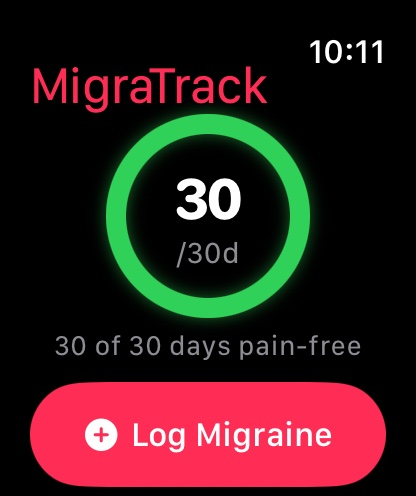
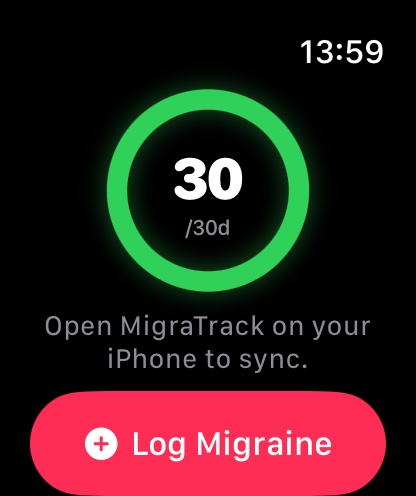
Update the Apple Watch steps of the user journey report for the redesign
The watch steps now show the three screens, the single Log Migraine complication and the control, and they say that a tap opens the logger. Screenshots of removed features are deleted.

Changed region(s): [[0.0625, 0.121, 0.9375, 1.0], [0.3125, 0.8468, 0.8125, 0.9375], [0.7188, 0.0605, 0.9375, 0.1512]]

diff --git a/docs/user-journey/index.html b/docs/user-journey/index.html
@@ -166,12 +166,13 @@ dialog p { color: #f4f1f2; text-align: center; font-size: 14px; margin-top: 10px
   <header class="intro">
     <span class="eyebrow">Сквозной тест · 4 октября 2026 · дополнен 11 октября</span>
     <h1>Путь пользователя <em>MigraTrack</em> на iPhone и Apple Watch</h1>
-    <p>Тест начался с чистой установки на обоих устройствах. Пользователь проходит онбординг, логирует приступы на iPhone, в приложении на часах, с компликации и из Smart Stack, смотрит аналитику и экспортирует отчёт. После каждого действия я проверял базу SQLite на обоих устройствах. Шаги 16–21 добавил второй прогон: календарь Insights, правка приступа и лог в прошлый день. Нажмите на снимок, чтобы увеличить его.</p>
+    <p>Тест начался с чистой установки на обоих устройствах. Пользователь проходит онбординг, логирует приступы на iPhone и на часах, открывает логгер часов с циферблата и из Smart Stack, смотрит аналитику и экспортирует отчёт. После каждого действия я проверял базу SQLite на обоих устройствах. Шаги 16–21 добавил второй прогон: календарь Insights, правка приступа и лог в прошлый день. Нажмите на снимок, чтобы увеличить его.</p>
+    <p>11 октября приложение на часах получило новый дизайн из трёх экранов. Шаги часов 1, 8–11 и 21 я переснял на новой версии и на данных второго прогона. Поэтому числа на часах отличаются от чисел в шагах iPhone.</p>
     <div class="facts">
       <div class="fact"><b class="ok">21 из 21</b><span>шага пройден, ошибок приложения нет</span></div>
       <div class="fact"><b>iPhone 18 Pro Max</b><span>симулятор, iOS 27.0</span></div>
       <div class="fact"><b>Watch Series 12</b><span>46 мм, watchOS 27.0, в паре с iPhone</span></div>
-      <div class="fact"><b>65</b><span>снимков экрана, Debug 1.0.0 (1)</span></div>
+      <div class="fact"><b>66</b><span>снимков экрана, Debug 1.0.0 (1)</span></div>
     </div>
   </header>
 
@@ -187,8 +188,8 @@ dialog p { color: #f4f1f2; text-align: center; font-size: 14px; margin-top: 10px
       <li><a href="#s7"><span class="n">7</span><span class="d" style="background:var(--pink)"></span>Сохранение</a></li>
       <li><a href="#s8"><span class="n">8</span><span class="d" style="background:var(--green)"></span>Часы получают данные</a></li>
       <li><a href="#s9"><span class="n">9</span><span class="d" style="background:var(--green)"></span>Лог на часах</a></li>
-      <li><a href="#s10"><span class="n">10</span><span class="d" style="background:var(--green)"></span>Компликации</a></li>
-      <li><a href="#s11"><span class="n">11</span><span class="d" style="background:var(--green)"></span>Smart Stack</a></li>
+      <li><a href="#s10"><span class="n">10</span><span class="d" style="background:var(--green)"></span>Компликация</a></li>
+      <li><a href="#s11"><span class="n">11</span><span class="d" style="background:var(--green)"></span>Smart Stack и Control</a></li>
       <li><a href="#s12"><span class="n">12</span><span class="d" style="background:var(--pink)"></span>Эпизод и профиль</a></li>
       <li><a href="#s13"><span class="n">13</span><span class="d" style="background:var(--pink)"></span>Insights</a></li>
       <li><a href="#s14"><span class="n">14</span><span class="d" style="background:var(--pink)"></span>Export</a></li>
@@ -209,12 +210,13 @@ dialog p { color: #f4f1f2; text-align: center; font-size: 14px; margin-top: 10px
       <div class="story">
         <span class="device watch">Apple Watch</span>
         <h2>Первый запуск часов, до связи с iPhone</h2>
-        <p>Приложение на часах ставится вместе с приложением на iPhone. Пока iPhone не прислал данные, часы показывают <strong>30 из 30 дней без боли</strong> и подсказку открыть MigraTrack на iPhone.</p>
-        <p>Логировать уже можно: часы берут интенсивность по умолчанию.</p>
+        <p>Приложение на часах ставится вместе с приложением на iPhone. Пока iPhone не прислал данные, кольцо показывает <strong>30 из 30 дней без боли</strong>. Под кольцом подсказка «Open MigraTrack on your iPhone to sync».</p>
+        <p>Логировать уже можно. Без пресета iPhone экран Pain Intensity начинается с 7, интенсивности по умолчанию.</p>
+        <p>Эти снимки я сделал на отдельном симуляторе часов без пары. Часы основной пары уже получили данные iPhone.</p>
       </div>
       <div class="shots">
-        <figure class="watch"><button class="shot" type="button"><img src="img/w01-watch-not-linked.jpg" alt="Главный экран часов: кольцо 30 из 30 дней без боли и кнопка Log Migraine" loading="lazy" width="416" height="496"></button><figcaption>Главный экран: кольцо дней без боли</figcaption></figure>
-        <figure class="watch"><button class="shot" type="button"><img src="img/w02-watch-not-linked-hint.jpg" alt="Подсказка открыть MigraTrack на iPhone" loading="lazy" width="416" height="496"></button><figcaption>Ниже: подсказка, что связи с iPhone ещё нет</figcaption></figure>
+        <figure class="watch"><button class="shot" type="button"><img src="img/w01-watch-not-linked.jpg" alt="Главный экран часов: кольцо 30 из 30, подсказка Open MigraTrack on your iPhone to sync и кнопка Log Migraine" loading="lazy" width="416" height="496"></button><figcaption>Кольцо 30/30 и подсказка о связи</figcaption></figure>
+        <figure class="watch"><button class="shot" type="button"><img src="img/w02-watch-logger-default.jpg" alt="Pain Intensity 7 из 10 и кнопка Save Episode" loading="lazy" width="416" height="496"></button><figcaption>Без пресета: интенсивность 7</figcaption></figure>
       </div>
     </article>
 
@@ -254,7 +256,7 @@ dialog p { color: #f4f1f2; text-align: center; font-size: 14px; margin-top: 10px
       <div class="story">
         <span class="device phone">iPhone</span>
         <h2>Шаг 3: схема лечения</h2>
-        <p>Острые препараты, <strong>Ibuprofen 400mg</strong> и <strong>Sumatriptan 50mg</strong>, становятся пресетом. Они подставляются в каждый новый лог и в быстрый лог с часов.</p>
+        <p>Острые препараты, <strong>Ibuprofen 400mg</strong> и <strong>Sumatriptan 50mg</strong>, становятся пресетом. Они подставляются в каждый новый лог на iPhone и на часах.</p>
         <p>Профилактический Riboflavin 400mg входит в профиль и в отчёт. «Finish Setup» сохраняет профиль.</p>
       </div>
       <div class="shots">
@@ -314,26 +316,29 @@ dialog p { color: #f4f1f2; text-align: center; font-size: 14px; margin-top: 10px
       <div class="story">
         <span class="device watch">Apple Watch</span>
         <h2>Часы получают пресет и приступы</h2>
-        <p>iPhone отправляет на часы пресет и приступы за 60 дней через WatchConnectivity. Кольцо на часах обновилось до <strong>29 из 30</strong>. Ниже появились «This month: 1 attack» и «Last attack: Oct 4». Подсказка о связи исчезла.</p>
+        <p>iPhone отправляет на часы пресет и приступы за 60 дней через WatchConnectivity. Подсказка о связи исчезла. Под кольцом теперь счёт дней без боли: <strong>26 of 30 days pain-free</strong>.</p>
+        <p>Главный экран показывает только кольцо и кнопку Log Migraine. Строк «This month» и «Last attack» в новой версии нет.</p>
       </div>
       <div class="shots">
-        <figure class="watch"><button class="shot" type="button"><img src="img/w03-watch-linked.jpg" alt="Часы: кольцо 29 из 30" loading="lazy" width="416" height="496"></button><figcaption>Кольцо 29/30 с данными iPhone</figcaption></figure>
-        <figure class="watch"><button class="shot" type="button"><img src="img/w04-watch-stats.jpg" alt="This month 1 attack, Last attack Oct 4" loading="lazy" width="416" height="496"></button><figcaption>Статистика месяца</figcaption></figure>
+        <figure class="watch"><button class="shot" type="button"><img src="img/w03-watch-linked.jpg" alt="Часы: кольцо 26 из 30, 26 of 30 days pain-free и кнопка Log Migraine" loading="lazy" width="416" height="496"></button><figcaption>Кольцо 26/30 с данными iPhone</figcaption></figure>
       </div>
     </article>
 
     <article class="step watch" id="s9">
       <div class="num">9</div>
       <div class="story">
-        <span class="device watch">Apple Watch</span>
+        <span class="device watch">Apple Watch</span><span class="device phone">iPhone</span>
         <h2>Лог в приложении на часах</h2>
-        <p>«Log Migraine» открывает выбор интенсивности. Значение пришло из пресета iPhone (6), цвет следует шкале тяжести. Его меняют колёсиком Digital Crown или кнопками. Ниже показаны препараты из профиля.</p>
-        <p>Ставим 5 и сохраняем. Экран подтверждения показывает итог и кнопку Undo.</p>
-        <div class="check">SQLite iPhone через секунду: <code>5 | App | Ibuprofen, Sumatriptan</code></div>
+        <p>«Log Migraine» открывает экран Pain Intensity. Значение пришло из пресета iPhone (6), цвет шкалы следует тяжести. Его меняют колёсиком Digital Crown.</p>
+        <p>«Save Episode» сохраняет приступ. Тот же лист показывает Episode logged: интенсивность и препараты из профиля. «Done» возвращает на главный экран, и кольцо показывает <strong>25 из 30</strong>: 11 октября стал днём приступа.</p>
+        <p>Я логировал на часах дважды, в 01:25 и в 01:35. Карточка дня в календаре iPhone показывает оба приступа.</p>
+        <div class="check">SQLite iPhone: <code>6 | App | Ibuprofen, Sumatriptan</code> в 01:25 и в 01:35, очередь часов <code>0</code></div>
       </div>
       <div class="shots">
-        <figure class="watch"><button class="shot" type="button"><img src="img/w05-watch-logger.jpg" alt="Экран выбора интенсивности 6 с препаратами" loading="lazy" width="416" height="496"></button><figcaption>Пресет с iPhone: 6/10 и препараты</figcaption></figure>
-        <figure class="watch"><button class="shot" type="button"><img src="img/w06-watch-logged.jpg" alt="Episode logged: Intensity 5/10" loading="lazy" width="416" height="496"></button><figcaption>Приступ сохранён</figcaption></figure>
+        <figure class="watch"><button class="shot" type="button"><img src="img/w04-watch-pain-intensity.jpg" alt="Pain Intensity 6 из 10, подсказка Turn Digital Crown и кнопка Save Episode" loading="lazy" width="416" height="496"></button><figcaption>Пресет с iPhone: 6/10</figcaption></figure>
+        <figure class="watch"><button class="shot" type="button"><img src="img/w05-watch-episode-logged.jpg" alt="Episode logged: Intensity 6/10, Ibuprofen 400mg, Sumatriptan 50mg и кнопка Done" loading="lazy" width="416" height="496"></button><figcaption>Episode logged: интенсивность и препараты</figcaption></figure>
+        <figure class="watch"><button class="shot" type="button"><img src="img/w06-watch-after-log.jpg" alt="Часы: кольцо 25 из 30 после лога" loading="lazy" width="416" height="496"></button><figcaption>После лога: 25/30</figcaption></figure>
+        <figure><button class="shot" type="button"><img src="img/p49-watch-episodes-on-iphone.jpg" alt="Календарь iPhone: Sunday, Oct 11, 2 episodes, пик 6 из 10, Ibuprofen 400mg и Sumatriptan 50mg" loading="lazy" width="560" height="1216"></button><figcaption>iPhone: 11 октября, 2 приступа с часов</figcaption></figure>
       </div>
     </article>
 
@@ -341,35 +346,33 @@ dialog p { color: #f4f1f2; text-align: center; font-size: 14px; margin-top: 10px
       <div class="num">10</div>
       <div class="story">
         <span class="device watch">Apple Watch</span>
-        <h2>Компликации на циферблате</h2>
-        <p>В редакторе циферблата у MigraTrack две компликации: «Log Migraine» и «Pain-Free Days». На Infograph ставим <strong>LOG</strong> в круг справа, кольцо дней без боли в нижний круг и «Log Migraine» в угол.</p>
-        <p>Тап по LOG открывает приложение, и оно сразу сохраняет приступ с пресетом. watchOS разрешает компликации на циферблате только открыть приложение. Экран подтверждения даёт Undo на случай случайного тапа.</p>
-        <div class="check">Тап по LOG, SQLite iPhone: <code>6 | QuickLog</code></div>
-        <div class="check">Undo: приступ удалён на часах и на iPhone</div>
+        <h2>Компликация Log Migraine на циферблате</h2>
+        <p>В редакторе циферблата у MigraTrack одна компликация, «Log Migraine». У неё четыре формы: круг, угол, прямоугольник и строка. На Infograph ставим её в угол и в круг справа.</p>
+        <p>Тап по компликации открывает приложение на экране Pain Intensity. watchOS разрешает компликации на циферблате только открыть приложение. Сам тап ничего не сохраняет, приступ сохраняет только «Save Episode». Поэтому случайный тап отменять не нужно, и кнопки Undo нет.</p>
+        <div class="check">Тап по LOG: открыт Pain Intensity, число приступов в SQLite на обоих устройствах не изменилось</div>
       </div>
       <div class="shots">
-        <figure class="watch"><button class="shot" type="button"><img src="img/w07-complication-picker.jpg" alt="Галерея компликаций MigraTrack: Log Migraine и Pain-Free Days" loading="lazy" width="416" height="496"></button><figcaption>Компликации MigraTrack в галерее</figcaption></figure>
-        <figure class="watch"><button class="shot" type="button"><img src="img/w08-face-editor.jpg" alt="Редактор циферблата с тремя компликациями" loading="lazy" width="416" height="496"></button><figcaption>Круг, кольцо и угол</figcaption></figure>
-        <figure class="watch"><button class="shot" type="button"><img src="img/w09-watch-face.jpg" alt="Циферблат Infograph с компликациями MigraTrack" loading="lazy" width="416" height="496"></button><figcaption>Циферблат с компликациями</figcaption></figure>
-        <figure class="watch"><button class="shot" type="button"><img src="img/w10-quicklog-confirmation.jpg" alt="Episode logged после тапа по компликации" loading="lazy" width="416" height="496"></button><figcaption>Один тап: приступ сохранён</figcaption></figure>
-        <figure class="watch"><button class="shot" type="button"><img src="img/w11-quicklog-undo.jpg" alt="Кнопки Done и Undo" loading="lazy" width="416" height="496"></button><figcaption>Undo для случайного тапа</figcaption></figure>
+        <figure class="watch"><button class="shot" type="button"><img src="img/w07-complication-circular.jpg" alt="Галерея компликаций MigraTrack: круглая компликация LOG" loading="lazy" width="416" height="496"></button><figcaption>Галерея: круг</figcaption></figure>
+        <figure class="watch"><button class="shot" type="button"><img src="img/w08-complication-corner.jpg" alt="Галерея компликаций MigraTrack: угловая компликация Log Migraine" loading="lazy" width="416" height="496"></button><figcaption>Галерея: угол</figcaption></figure>
+        <figure class="watch"><button class="shot" type="button"><img src="img/w09-watch-face.jpg" alt="Циферблат Infograph: Log Migraine в углу и LOG в круге справа" loading="lazy" width="416" height="496"></button><figcaption>Угол и круг на Infograph</figcaption></figure>
+        <figure class="watch"><button class="shot" type="button"><img src="img/w10-complication-tap.jpg" alt="Pain Intensity 6 из 10 после тапа по компликации" loading="lazy" width="416" height="496"></button><figcaption>Тап открывает Pain Intensity</figcaption></figure>
       </div>
     </article>
 
     <article class="step watch" id="s11">
       <div class="num">11</div>
       <div class="story">
-        <span class="device watch">Apple Watch</span><span class="device phone">iPhone</span>
-        <h2>Smart Stack: лог без открытия приложения</h2>
-        <p>Ту же компликацию добавляем в Smart Stack. Там кнопка выполняет действие на месте: тап сохранил приступ <strong>6/10</strong>, приложение не открылось.</p>
-        <p>Расширение компликаций не может связаться с iPhone. Приступ ждёт в очереди часов и уходит при следующем открытии приложения на часах. После этого он появился на iPhone.</p>
-        <div class="check">SQLite часов: <code>6 | QuickLog</code>, очередь <code>1</code> → после открытия приложения <code>0</code></div>
+        <span class="device watch">Apple Watch</span>
+        <h2>Smart Stack и Control</h2>
+        <p>В Smart Stack та же компликация показана прямоугольником: «Log Migraine» и полоса <strong>25 of 30 days pain-free</strong>. Галерея Smart Stack предлагает и Control «Log Migraine» для watchOS 26.</p>
+        <p>Тап по виджету или по Control тоже открывает Pain Intensity и ничего не сохраняет. Каждый лог проходит через приложение, поэтому приступ сразу уходит на iPhone.</p>
+        <div class="check">Тап по Control: открыт Pain Intensity, число приступов в SQLite на обоих устройствах не изменилось</div>
       </div>
       <div class="shots">
-        <figure class="watch"><button class="shot" type="button"><img src="img/w12-smartstack-gallery.jpg" alt="Виджет Log Migraine в галерее Smart Stack" loading="lazy" width="416" height="496"></button><figcaption>Виджет в галерее Smart Stack</figcaption></figure>
-        <figure class="watch"><button class="shot" type="button"><img src="img/w13-smartstack.jpg" alt="Smart Stack с виджетом Log Migraine" loading="lazy" width="416" height="496"></button><figcaption>Виджет в Smart Stack</figcaption></figure>
-        <figure class="watch"><button class="shot" type="button"><img src="img/w14-smartstack-after-tap.jpg" alt="Smart Stack после тапа, приложение не открылось" loading="lazy" width="416" height="496"></button><figcaption>После тапа приложение не открылось</figcaption></figure>
-        <figure><button class="shot" type="button"><img src="img/p19-summary-synced.jpg" alt="iPhone: Last Event Intensity 6 из 10" loading="lazy" width="560" height="1216"></button><figcaption>iPhone: Last Event 6/10 с часов</figcaption></figure>
+        <figure class="watch"><button class="shot" type="button"><img src="img/w11-smartstack-gallery.jpg" alt="Галерея Smart Stack: виджет Log Migraine с полосой 25 of 30 days pain-free и Control Log Migraine" loading="lazy" width="416" height="496"></button><figcaption>Виджет и Control в галерее</figcaption></figure>
+        <figure class="watch"><button class="shot" type="button"><img src="img/w12-smartstack-widget.jpg" alt="Smart Stack с виджетом Log Migraine: 25 of 30 days pain-free" loading="lazy" width="416" height="496"></button><figcaption>Виджет: 25 из 30 дней без боли</figcaption></figure>
+        <figure class="watch"><button class="shot" type="button"><img src="img/w13-smartstack-control.jpg" alt="Smart Stack с Control Log Migraine" loading="lazy" width="416" height="496"></button><figcaption>Control в Smart Stack</figcaption></figure>
+        <figure class="watch"><button class="shot" type="button"><img src="img/w14-control-tap.jpg" alt="Pain Intensity 6 из 10 после тапа по Control" loading="lazy" width="416" height="496"></button><figcaption>Тап по Control открывает Pain Intensity</figcaption></figure>
       </div>
     </article>
 
@@ -530,13 +533,15 @@ dialog p { color: #f4f1f2; text-align: center; font-size: 14px; margin-top: 10px
     <article class="step watch" id="s21">
       <div class="num">21</div>
       <div class="story">
-        <span class="device watch">Apple Watch</span>
+        <span class="device watch">Apple Watch</span><span class="device phone">iPhone</span>
         <h2>Часы получают правку с iPhone</h2>
-        <p>После каждой правки iPhone отправляет на часы приступы за 60 дней. Часы показывают <strong>Last attack: Oct 6</strong> и 5 приступов в октябре.</p>
+        <p>После каждой правки iPhone отправляет на часы приступы за 60 дней. Часы больше не показывают даты приступов, поэтому правку видно по кольцу. Кольцо считает дни приступов по тем же данным, что и Summary на iPhone. Оба устройства показывают <strong>25 из 30</strong>.</p>
         <p>iPhone помнит приступы, которые уже пришли с часов. Поэтому повторный пакет с часов не возвращает приступ, удалённый на iPhone. Это проверяют тесты синхронизации.</p>
+        <div class="check">SQLite часов, как на iPhone: <code>sample-18 | 2026-09-15 08:48</code> и <code>2026-10-06 10:31 | 6 | QuickLog</code></div>
       </div>
       <div class="shots">
-        <figure class="watch"><button class="shot" type="button"><img src="img/w15-watch-after-phone-edit.jpg" alt="Часы: 26 из 30 дней без боли, This month 5 attacks, Last attack Oct 6" loading="lazy" width="416" height="496"></button><figcaption>Last attack: Oct 6 после правки на iPhone</figcaption></figure>
+        <figure class="watch"><button class="shot" type="button"><img src="img/w15-watch-after-phone-edit.jpg" alt="Часы: кольцо 25 из 30, 25 of 30 days pain-free" loading="lazy" width="416" height="496"></button><figcaption>Часы: 25/30</figcaption></figure>
+        <figure><button class="shot" type="button"><img src="img/p50-summary-after-phone-edit.jpg" alt="Summary на iPhone: Pain-Free 25 из 30 дней, Last Event Oct 11, Intensity 6/10" loading="lazy" width="560" height="1216"></button><figcaption>iPhone: Pain-Free 25/30d</figcaption></figure>
       </div>
     </article>
     </div>
@@ -546,17 +551,16 @@ dialog p { color: #f4f1f2; text-align: center; font-size: 14px; margin-top: 10px
     <div class="section-head">
       <span class="eyebrow">Данные</span>
       <h2 id="checks">Что проверено в базах</h2>
-      <p>Каждое действие я сверял с SQLite на iPhone и в App Group на часах. Синхронизация завершена, когда очередь часов пуста. Для шагов 16–21 я сверил итоговое состояние обеих баз.</p>
+      <p>Каждое действие я сверял с SQLite на iPhone и в App Group на часах. Синхронизация завершена, когда очередь часов пуста. Для шагов 16–21 я сверил итоговое состояние обеих баз. Строки часов я перепроверил 11 октября на новой версии.</p>
     </div>
     <div class="table-wrap">
       <table>
         <thead><tr><th>Действие</th><th>Где сохранено</th><th>Что в базе</th><th>Итог</th></tr></thead>
         <tbody>
           <tr><td>Лог на iPhone, 9/10</td><td>iPhone</td><td><code>9 | App</code>, три препарата</td><td><span class="pill pass">Пройдено</span></td></tr>
-          <tr><td>Лог в приложении на часах, 5/10</td><td>часы → iPhone</td><td><code>5 | App</code> на iPhone через секунду</td><td><span class="pill pass">Пройдено</span></td></tr>
-          <tr><td>Тап по LOG на циферблате</td><td>часы → iPhone</td><td><code>6 | QuickLog</code> на iPhone</td><td><span class="pill pass">Пройдено</span></td></tr>
-          <tr><td>Undo после быстрого лога</td><td>часы и iPhone</td><td>Приступ удалён на обоих, запрос на удаление очищен</td><td><span class="pill pass">Пройдено</span></td></tr>
-          <tr><td>Тап в Smart Stack</td><td>расширение часов</td><td><code>6 | QuickLog</code>, очередь 1 → 0 после открытия приложения</td><td><span class="pill pass">Пройдено</span></td></tr>
+          <tr><td>Лог в приложении на часах, 6/10</td><td>часы → iPhone</td><td><code>6 | App</code> на iPhone в 01:25 и в 01:35, очередь часов 0</td><td><span class="pill pass">Пройдено</span></td></tr>
+          <tr><td>Тап по компликации на циферблате</td><td>часы</td><td>Открыт Pain Intensity, новых приступов нет</td><td><span class="pill pass">Пройдено</span></td></tr>
+          <tr><td>Тап по Control в Smart Stack</td><td>часы</td><td>Открыт Pain Intensity, новых приступов нет</td><td><span class="pill pass">Пройдено</span></td></tr>
           <tr><td>Перезагрузка часов</td><td>часы</td><td>Данные на месте, кольцо 29/30</td><td><span class="pill pass">Пройдено</span></td></tr>
           <tr><td>App Shortcut из Spotlight</td><td>iPhone</td><td>Новый <code>6 | QuickLog</code></td><td><span class="pill pass">Пройдено</span></td></tr>
           <tr><td>Экспорт .xlsx</td><td>файл</td><td>Архив без ошибок, 11 строк за 90 дней</td><td><span class="pill pass">Пройдено</span></td></tr>
@@ -584,8 +588,8 @@ dialog p { color: #f4f1f2; text-align: center; font-size: 14px; margin-top: 10px
         <p>Макеты не показывают время начала, смену месяца и день с несколькими приступами. Приложение берёт системные элементы: выбор даты в строке «Episode Start», колесо месяца и алерт выбора приступа. Длительности в карточке дня нет: приложение не хранит время конца приступа.</p>
       </div>
       <div class="note">
-        <h3><span class="pill note">watchOS</span>Smart Stack и Control ждут приложение</h3>
-        <p>Лог из Smart Stack или Control выполняется в расширении, которое не может связаться с iPhone. Приступ уходит на iPhone при следующем открытии приложения на часах. Лог с циферблата и из приложения уходит сразу.</p>
+        <h3><span class="pill note">watchOS</span>Компликация и Control только открывают приложение</h3>
+        <p>На циферблате watchOS не выполняет действие кнопки, а только открывает приложение. Действие в Smart Stack выполнялось бы в расширении, а расширение не может связаться с iPhone. Поэтому все тапы открывают Pain Intensity, и лог всегда сразу уходит на iPhone.</p>
       </div>
       <div class="note">
         <h3><span class="pill sim">Симулятор</span>Не связано с приложением</h3>
@@ -594,12 +598,14 @@ dialog p { color: #f4f1f2; text-align: center; font-size: 14px; margin-top: 10px
           <li>После переустановки приложения на часах компликации пропали с циферблата до перезагрузки симулятора.</li>
           <li>В режиме Always On часы не принимают тапы.</li>
           <li>Ответ Siri после App Shortcut исчезает быстрее, чем делается снимок; база подтверждает лог.</li>
+          <li><code>simctl openurl</code> на часах не работает, поэтому ссылку компликации я проверял тапом по циферблату.</li>
         </ul>
       </div>
       <div class="note">
         <h3><span class="pill sim">Не проверено</span>Нужно реальное устройство</h3>
         <ul>
-          <li>Control в Control Center часов: симулятор его не открывает. По системным логам Control зарегистрирован.</li>
+          <li>Control в Control Center часов: симулятор его не открывает. В Smart Stack Control проверен, шаг 11.</li>
+          <li>Поворот Digital Crown: мой инструмент не поворачивает колёсико. Логи с часов сохранены с интенсивностью пресета 6.</li>
           <li>Реальные данные сна из Apple Health.</li>
           <li>Передача через очередь <code>transferUserInfo</code>: в симуляторе она не доходит, проверена прямая отправка.</li>
         </ul>
